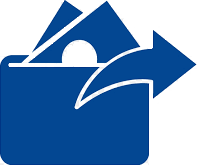
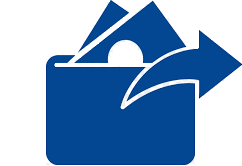
- Add Fund Page

diff --git a/components/fund/fundfield/index.js b/components/fund/fundfield/index.js
@@ -1,0 +1,61 @@
+import React from "react";
+import { View, Button } from "react-native";
+import { TextInput, RadioButton, Text } from "react-native-paper";
+
+import styles from "./style";
+
+const FundField = () => {
+  const [routNumber, setRoutNumber] = React.useState("");
+  const [currencyUnit, setCurrencyUnit] = React.useState("paypal");
+  const [amount, setAmount] = React.useState(0);
+
+  return (
+    <View style={styles.container}>
+      <View style={styles.selectCurrencyUnit}>
+        <View style={{ alignItems: "center", justifyContent: "center" }}>
+          <Text style={{ fontSize: 20, color: "#00B4F0" }}>Select Card</Text>
+        </View>
+        <View>
+          <RadioButton.Group
+            onValueChange={(newCurrencyUnit) =>
+              setCurrencyUnit(newCurrencyUnit)
+            }
+            value={currencyUnit}
+          >
+            <View style={styles.inline}>
+              <RadioButton.Item
+                label="Paypal"
+                value="paypal"
+                uncheckedColor="#00B4F0"
+                labelStyle={{ color: "#00B4F0" }}
+              />
+              <RadioButton.Item
+                label="Other"
+                value="other"
+                uncheckedColor="#00B4F0"
+                labelStyle={{ color: "#00B4F0" }}
+              />
+            </View>
+          </RadioButton.Group>
+        </View>
+      </View>
+      <TextInput
+        label="Card Number"
+        value={routNumber}
+        onChangeText={(newNumber) => setRoutNumber(newNumber)}
+        style={styles.addressField}
+        mode="outlined"
+      />
+      <TextInput
+        label="Amount"
+        value={amount}
+        onChangeText={(newAmount) => setAmount(newAmount)}
+        style={styles.amountField}
+        mode="outlined"
+      />
+      <Button title="Charge" style={styles.sendBtn}></Button>
+    </View>
+  );
+};
+
+export default FundField;

diff --git a/components/fund/fundfield/style.js b/components/fund/fundfield/style.js
@@ -1,0 +1,35 @@
+import { StyleSheet } from "react-native";
+
+const styles = StyleSheet.create({
+  container: { width: 300 },
+  addressField: {
+    marginBottom: 20,
+    backgroundColor: "white",
+  },
+  amountField: {
+    marginBottom: 20,
+    backgroundColor: "white",
+  },
+  selectCurrencyUnit: {
+    flexDirection: "row",
+    justifyContent: "space-between",
+  },
+  inline: {
+    flexDirection: "row",
+  },
+  currencyUnit: {
+    marginTop: 8,
+    color: "#00B4F0",
+  },
+  left: {
+    width: "50%",
+  },
+  right: {
+    width: "50%",
+  },
+  sendBtn: {
+    paddingTop: 50,
+  },
+});
+
+export default styles;

diff --git a/App.js b/App.js
@@ -5,11 +5,12 @@ import Login from "./pages/login";
 import Register from "./pages/register/index";
 import Dashboard from "./pages/dashboard";
 import Transfer from "./pages/transfer";
+import Fund from "./pages/fund";
 
 export default function App() {
   return (
     // <View style={styles.container}>
-    <Transfer />
+    <Fund />
     // </View>
   );
 }

diff --git a/pages/fund/index.js b/pages/fund/index.js
@@ -1,0 +1,16 @@
+import React from "react";
+import { View } from "react-native";
+
+import FundField from "../../components/fund/fundfield";
+
+import styles from "./style";
+
+const Fund = () => {
+  return (
+    <View style={styles.container}>
+      <FundField />
+    </View>
+  );
+};
+
+export default Fund;

diff --git a/components/transfer/transferimage/style.js b/components/transfer/transferimage/style.js
@@ -3,7 +3,7 @@ import { StyleSheet } from "react-native";
 const styles = StyleSheet.create({
   container: { alignItem: "center", marginBottom: 50 },
   transferimg: {
-    width: 200,
+    width: 250,
     resizeMode: "stretch",
   },
 });

diff --git a/pages/fund/style.js b/pages/fund/style.js
@@ -1,0 +1,11 @@
+import { StyleSheet } from "react-native";
+
+const styles = StyleSheet.create({
+  container: {
+    flex: 1,
+    alignItems: "center",
+    justifyContent: "center",
+  },
+});
+
+export default styles;
